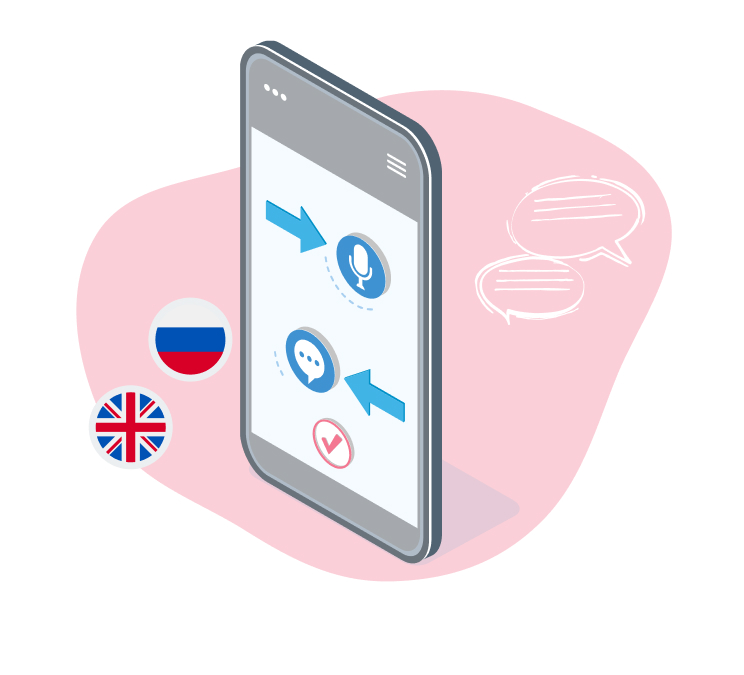
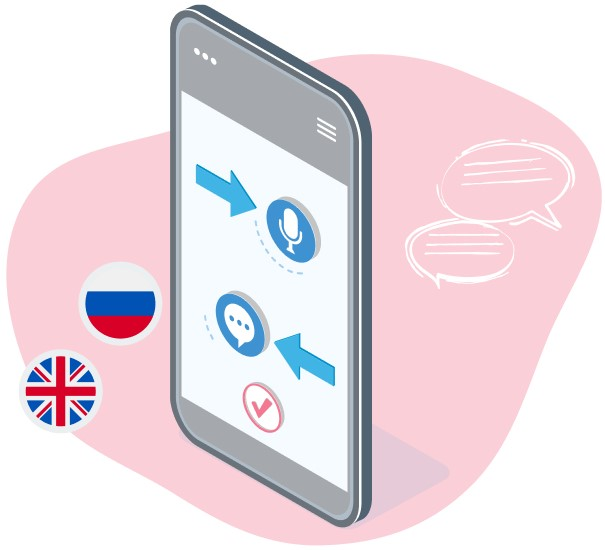
Fixed and finished the promo-section block

diff --git a/css/_settings.scss b/css/_settings.scss
@@ -8,7 +8,7 @@
   font-style: normal;
 }
 
-body{
+body {
   background: $white;
   color: $black;
 
@@ -23,6 +23,30 @@ ul, h1 {
   margin: 0;
 }
 
+
+a {
+  cursor: pointer;
+  text-decoration: none;
+}
+
+.background-blotch {
+  position: absolute;
+  top: 0;
+  left: 0;
+  width: 17vw;
+  height: 17vw;
+  z-index: -1;
+}
+
+.background-blotch-two {
+  position: absolute;
+  top: 0;
+  right: 0;
+  width: 14vw;
+  height: 8vw;
+  z-index: -1;
+}
+
 .button {
   width: 160px;
   height: 40px;
@@ -31,20 +55,16 @@ ul, h1 {
   font-size: $font-size-18;
   line-height: 150%;
   color: $white;
+  cursor: pointer;
 }
 
-.svg-flag-uk {
-  width: 21px;
-  height: 21px;
-  box-shadow: 0 0 7px rgba(8, 76, 148, 0.28);
-  border-radius: 50%;
-}
 
 .svg-arrow {
   width: 8px;
   height: 8px;
   background: $white;
   transition: 1s;
+  cursor: pointer;
 }
 
 .svg-arrow:hover {

diff --git a/css/_media.scss b/css/_media.scss
@@ -15,21 +15,18 @@
     height: 45vw;
   }
 
-
   .background-phone{
     top: 14vh;
     right: 5vw;
     width: 43vw;
   }
 
-
-
 }
 
 @media (max-width: 767px) {
   .promo-section {
     margin-top: 45px;
-    grid-template-columns: 1fr 0.6fr;
+    grid-template-columns: 1fr 1fr;
   }
   .promo-section__title {
     font-size: calc(32px + (32 + 32 * 0.7) * ((100vw - 320px) / 1992));
@@ -40,7 +37,6 @@
     top: 10vh;
     right: 0;
     width: 49vw;
-    z-index: -1;
   }
 
 }
@@ -65,6 +61,10 @@
     height: 50px;
   }
 
+  .background-phone {
+    top: 113px;
+  }
+
 }
 
 @media (max-width: 435px) {
@@ -77,7 +77,7 @@
   }
 
   .background-phone {
-    top: 260px;
+    top: 240px;
   }
 
 }

diff --git a/css/blocks/_promo-section.scss b/css/blocks/_promo-section.scss
@@ -34,14 +34,29 @@
   display: flex;
   align-items: center;
   padding-left: 30px;
+  transition: 1s;
+  cursor: pointer;
+}
+
+.block-buttons__telegram:hover, .block-buttons__whatsapp:hover{
+  transition: 1s;
+  opacity: 0.5;
 }
 
 .btn-whatsapp {
   background: $background-whatsapp;
+
+  a {
+    color: $white;
+  }
 }
 
 .btn-telegram {
   background: $background-telegram;
+
+  a {
+    color: $white;
+  }
 }
 
 .svg-whatsapp, .svg-telegram {
@@ -59,17 +74,12 @@
   left: 0;
 }
 
-.promo-section__right {
-  //position: relative;
-}
-
-.background-phone{
+.background-phone {
   position: absolute;
   top: 40px;
   right: 8vw;
   width: 42vw;
-
-  //height: 100%;
+  z-index: -2;
 }
 
 
